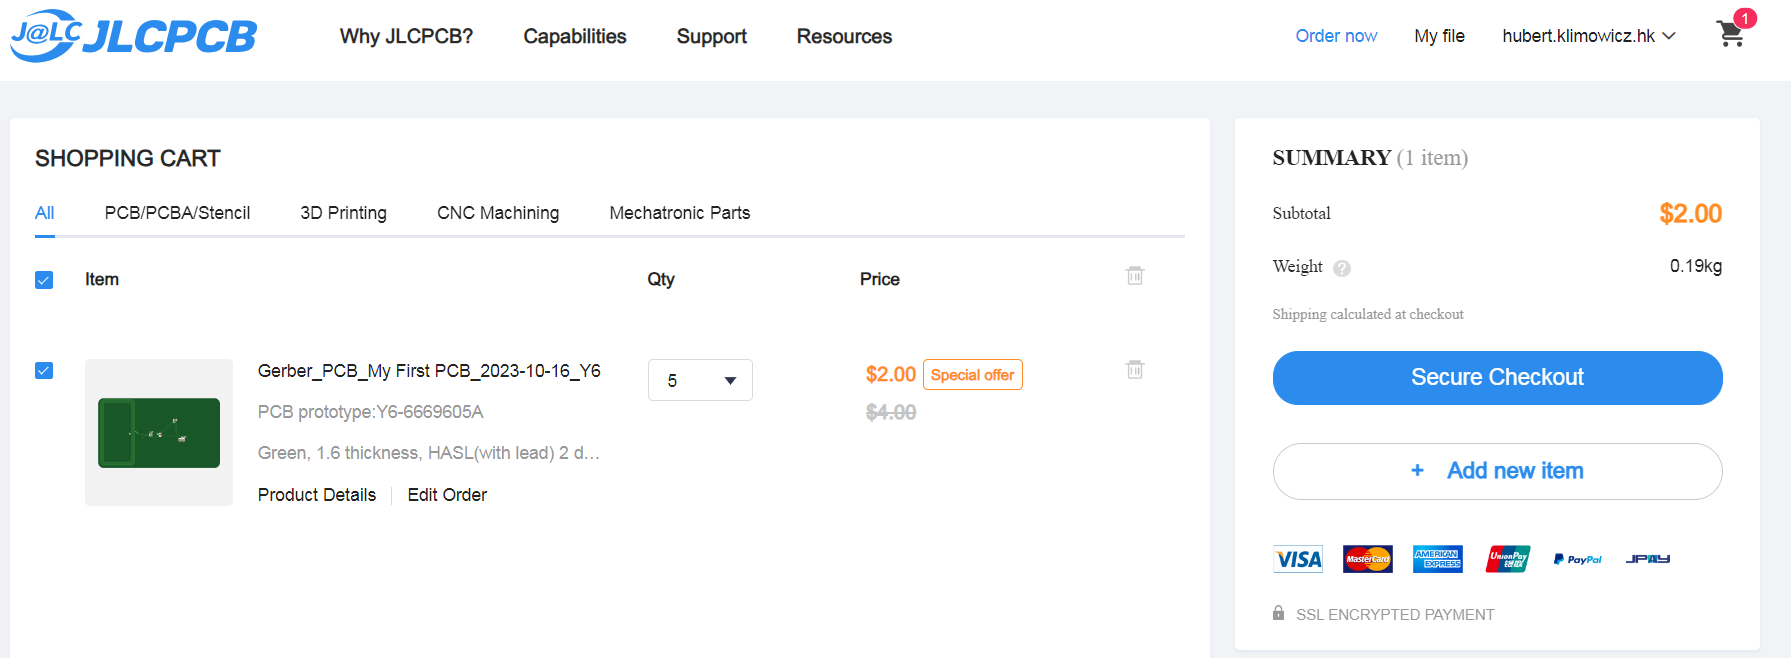
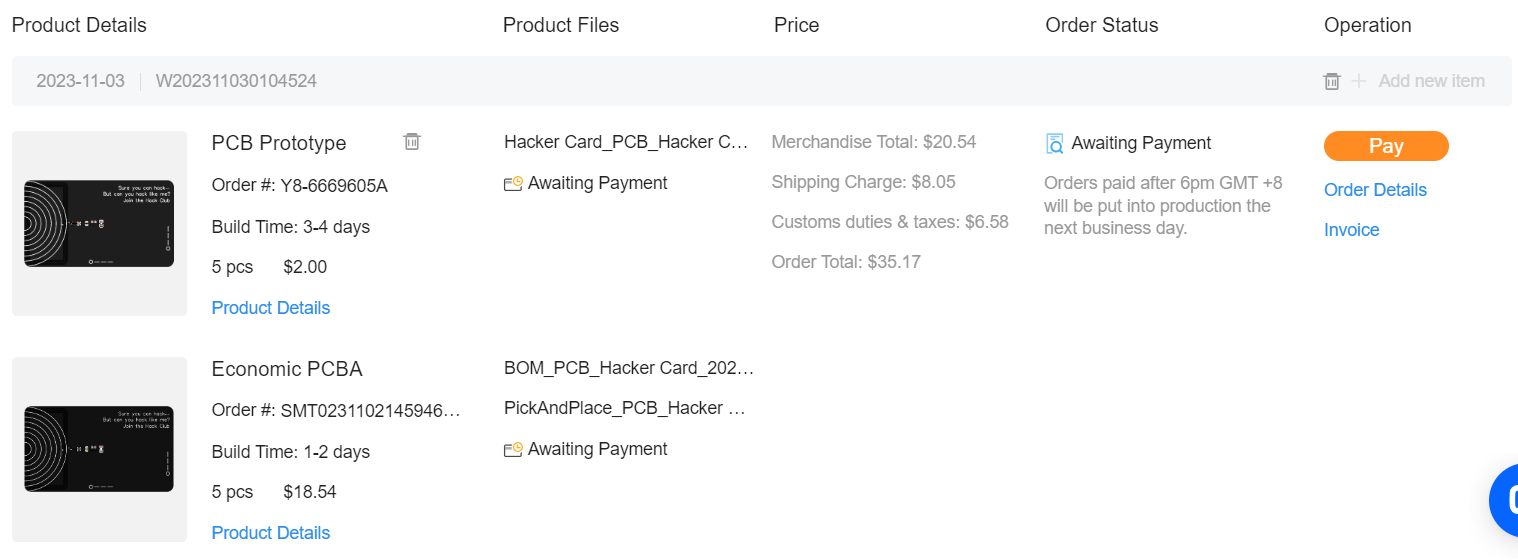
:ambulance: update onBoard application tutorial

diff --git a/src/pages/docs/07-OnBoard.md b/src/pages/docs/07-OnBoard.md
@@ -10,7 +10,10 @@ To będzie algorytm krok po kroku jak aplikować o grant HackClub (OnBoard) na p
 ### Ograniczenia grantu:
 - żeby zakup dało się sfinansować, należy być uczniem szkoły średniej,
 - wartość grantu jest ograniczona do 100$,
-- grant pokryje koszty płytki i dostawy, ale nie podatki i cła ze względu na skomplikowane procedury prawne.
+- grant pokryje koszty płytki i dostawy, ale nie podatki i cła ze względu na skomplikowane procedury prawne. Dotyczy to szczególnie zakupów z metodą wysyłki innych niż w kategorii IOSS, gdzie klient może być zapytany o dalszą współpracę w przeprowadzaniu płatności.
+
+### Dane osobowe
+- W trakcie wysyłania formularza weryfikacyjnego (ani nigdzie indziej w internecie) pamiętaj o zakryciu danych, które do przeprowadzenia danego działania nie są na pierwszy rzut oka istotne.
 
 ## 1. Dołącz do Slacka
 Jeśli jeszcze tego nie zrobiłeś, należy założyć konto na Slacku i dołączyć do HackClubu na Slacku. Nie ma tam żadnego procesu rekrutacyjnego, więc każdy może dołączyć w dowolnym momencie.
@@ -44,10 +47,14 @@ Po tym wygeneruj pliki Gerber. To są pliki opisujące płytkę, potrzebne do je
 
 Po tym wchodzisz w opcję "No, generate Gerber", a następnie "Generate Gerber".
 
+Wreszcie, wygeneruj do tego pliki BOM i pick and place. Są one dostępne pod przyciskami obok generowania pliku Gerber.
+
 Żeby ukończyć ten krok, musisz posiadać:
 - pliki Gerber (w formacie .zip)
 - plik schematu (w formacie .json)
 - plik płytki (w formacie .json)
+- plik BOM (w formacie .csv)
+- plik pozycji (pick and place, w formacie .csv)
 
 ## 4. Zrób screena z rozliczeń za zakup płytek
 
@@ -55,18 +62,28 @@ Po tym wchodzisz w opcję "No, generate Gerber", a następnie "Generate Gerber".
 
 Następnie, dodaj wcześniej wygenerowane pliki Gerber. Dodaj ofertę do koszyka i wejdź na swój profil. **Pamiętaj, żeby zamówić 5 płytek - najmniejszą ich liczbę.**
 
-Jeśli widzisz mniej więcej to, co na screenie, to trafiłeś dobrze, a następnym krokiem jest udanie się do "Secure Checkout".
+Następnie, znajdź opcję PCB Assembly. Jest to oferta od JLCPCB na zamontowanie właściwych części na płytce. Wybierz *Assemble Top Side* i *PCBA type = Economic*. Możesz (ale nie musisz) ograniczać swojego PCB Assembly do 2 płytek, możesz jak najbardziej mieć te części zamontowane na 5 płytkach. Dalej wrzuczasz wcześniej wygenerowane pliki BOM i pick and place (CPL, po prawej strone najpewniej).
 
-![To powinieneś zobaczyć w tym momencie](../../../public/pcb-cart.png)
-**To będzie screen, który wyślesz do HackClubu, przedstawiający koszty do pokrycia przez grant.**
+![Elementy do płytki](../../../public/pcba-components.png)
 
-Wypełnij formularz własnymi danymi (nie jest to szczególnie istotne, ale precyzyjnie podaj adres, bo na jego podstawie będą naliczane koszty).
+Cewka nie musi być oznaczona do wstawienia, czyli jeśli widzisz *No part selected* na cewce, to przechodzisz dalej po kliknięciu w odpowiedni przycisk i w *Do not place*.
+
+W części nadania opisu produktu, wybierz Others/Others i wpisz NFC Business Card.
+
+Po uzupełnieniu detali o PCB Assembly następnym krokiem jest udanie się do "Secure Checkout".
+
+Wypełnij formularz własnymi danymi (nie jest to szczególnie istotne, ale precyzyjnie podaj adresy, bo na jego podstawie będą naliczane koszty + nic się nie zepsuje w trakcie zamównienia).
 
 ![Wybór metody wysyłki](../../../public/shipping-method.png)
 
 Wybierz metodę Global Standard Direct Line dla zminimalizowania kosztów. W przeciągu około 3 tygodni (12-16 dni roboczych) od zamównienia przesyłka będzie dostarczona.
 
-Zanotuj, ile będzie kosztować płytka bez dostawy i z dostawą. **Zwróć uwagę na podatek i cło, które trzeba zapłacić z własnej kieszeni**.
+Zanotuj, ile będzie kosztować płytka bez dostawy i z dostawą.
+
+> **Zwróć uwagę na podatek i cło, które trzeba zapłacić z własnej kieszeni. Jeśli wybierzesz metodę wysyłki w kategorii IOSS, to wszystkie potrzebne opłaty powinny zostać poniesione już w trakcie wysyłki i zostaną pokryte przez grant, dzięki czemu nic nie będziesz musiał pokrywać z własnej kieszeni.**.
+
+![To powinieneś zobaczyć w tym momencie](../../../public/pcb-cart.png)
+**To będzie screen, który wyślesz do HackClubu, przedstawiający koszty do pokrycia przez grant.**
 
 Żeby zakończyć ten krok, będą ci potrzebne:
 - screen przedstawiający płytki i koszty zamówienia,
@@ -100,7 +117,12 @@ Wejdź na GitHuba, na swoje sforkowane repozytorium, i znajdź ten przycisk:
 
 Wypełnij checklistę, która się pojawi, wstawiając znak `x` w nawiasy kwadratowe. Upewnij się, że zrobiłeś wszystkie podane kroki. Zostanie jeszcze jedna rzecz do zrobienia, czyli verification form. Ten formularz weryfikacyjny jest potrzebny po to, żeby organizacja upewniła się, że jesteś uczniem szkoły średniej i żeby wiedziała, gdzie trzeba dostarczyć przesyłkę. Jako dowód uczęszczania do szkoły wyślij zdjęcie swojej legitymacji szkolnej z datą ważności, nazwą szkoły i imieniem i nazwiskem, **z danymi przetłumaczonymi na angielski**.
 
+> **Pamiętaj o tym, żeby zakryć dane, które nie są nikomu porzebne, jak np. PESEL. Tutaj nie skończy się to fatalnie, bo formularze nie są wysyłane osobom trzecim, ale na przyszłość taka informacja może się bardzo przydać.**
+
 Możesz spojrzeć na treść pull requesta kilkająch przycisk *Preview* i jak wszystko się zgadza, wciśnij zielony przycisk "Create pull request".
 
-## Koniec!
-Od tego momentu bądź na bieżąco na GitHubie (tam, gdzie twój pull request), mailu i na kanale #onboard na Slacku.
+## 8. Aplikacja ukończona!
+
+Od tego momentu bądź na bieżąco na GitHubie (tam, gdzie twój pull request), mailu i na kanale #onboard na Slacku. Tam znajdziesz dalsze informacje datyczące zamawiania płytek. Płytki zamawiasz samemu, a Hack Club daje ci wirtualną kartę na 100$. Informacja o otrzymanym grancie pojawi się na mailu, ale nadal śledź, szczególnie przed zamówieniem, swojego pull requesta, gdzie mogą się znaleźć komentarze naprowdzające na właściwe przeprowadzenie procedury.
+
+Zamów płytkę, oczywiście podając własne, prawdziwe dane do JLCPCB w trakcie *Secure Checkout*, czy też *Shipping Options*. Zamówienie powinno dotrzeć w przeciągu kilku tygodni i dużo będzie zależało od wybranej metody przesyłki.

diff --git a/src/pages/docs/10-generator-zdjec.md b/src/pages/docs/10-generator-zdjec.md
@@ -84,7 +84,7 @@ Oprócz tego w TypeScript możemy tworzyć zmienne o typach, w których występu
 
 Zmienna `imagePromise` jest typu `Promise<string>`. Oznacza to, że w `imagePromise` znajdzie się wartość `string`, ale jej przypisanie jest opóźnione. Zmienne typu `Promise<T>` zawierają wartość, której się spodziewamy w pewnym, późniejszym momencie. Jest to specjalny typ, zwracany przez funkcje asynchroniczne (`async function`). Faktycznie, funkcja `ask()` jest funkcją asynchroniczną, a w `generateImage` do `imagePromise` jest przypisana wartość, którą funkcja `ask()` zwraca. Gdyby funkcja `ask()` nie była asynchroniczna, to zwracałaby normalnie typ `string`, ale ponieważ jest asynchronicza, zwraca typ `Promise<string>`.
 
-Zwróćmy uwagę, że funkcja `ask()` wykona się **w tle**. Oznacza to, że od momentu wysłania zapytania do serwera hostującego model AI, do chwili przed uzyskaniem od niego odpowiedzi, zmienna `imagePromise` o typie `Promise<string>` będzie miała stan nieukończony, a jej wartość nieznana. Kiedy dostaniemy odpowiedź od serwera, wykonywanie funkcji `ask()` będzie uznane za ukończone, a to spowoduje, że wartość `Promise<string>` otrzyma stan ukończony (ang. *resolved*). Dzięki temu będzie można odczytać wartość typu `string` z tej samej zmiennej - można powiedzieć, że wartość `string` jest już gotowa.
+Zwróćmy uwagę, że funkcja `ask()` wykona się *w tle*. Oznacza to, że od momentu wysłania zapytania do serwera hostującego model AI, do chwili przed uzyskaniem od niego odpowiedzi, zmienna `imagePromise` o typie `Promise<string>` będzie miała stan nieukończony, a jej wartość nieznana. Kiedy dostaniemy odpowiedź od serwera, wykonywanie funkcji `ask()` będzie uznane za ukończone, a to spowoduje, że wartość `Promise<string>` otrzyma stan ukończony (ang. *resolved*). Dzięki temu będzie można odczytać wartość typu `string` z tej samej zmiennej - można powiedzieć, że wartość `string` jest już gotowa.
 
 
 Oczywiście `Promise<string>` jest typem zawierającym parametr typu `string`. Zmienna typu `Promise<number>` będzie sygnalizować, że dana zmienna będzie oczekiwać wartości liczbowej zamiast tekstowej.
